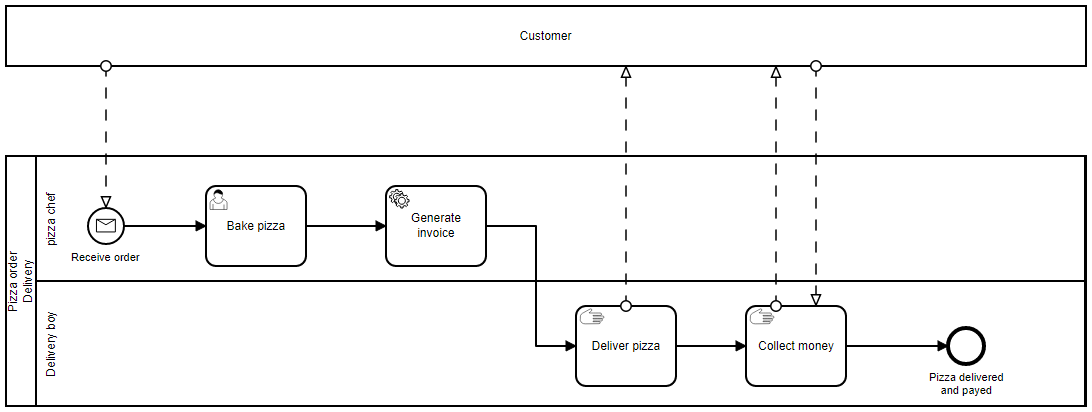
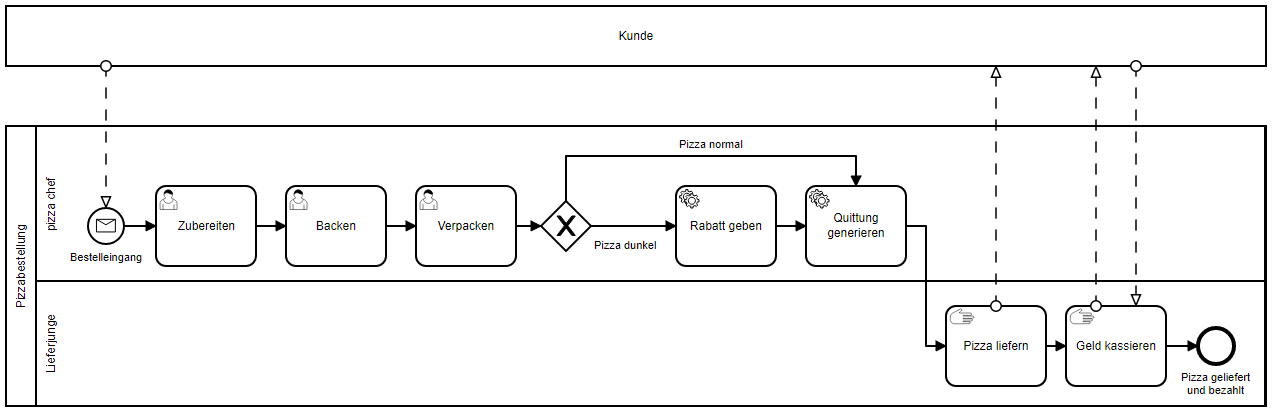
docs: updated README.md

diff --git a/README.md b/README.md
@@ -5,7 +5,7 @@ An integration of Alexa and [Camunda BPM Platform](https://github.com/camunda/ca
 I use Camunda BPM Platform integrated in
 Micronaut ([micronaut-camunda-bpm](https://github.com/camunda-community-hub/micronaut-camunda-bpm)).
 
-## The process
+## Introduction / Motivation
 
 The following image shows a pizza delivery service process. I took it from the book of Rücker &
 Freund.
@@ -13,24 +13,33 @@ Freund.
 > Source: Replicated from Page 98, Rücker, B., & Freund, J. (2019). Praxishandbuch BPMN 2.0: Mit Einführung in DMN. Carl Hanser Verlag GmbH Co KG.
 
 However, we are only looking on the "service view" of the process. So we collapse the customer pool.
+Also, we split the task "Bake pizza" in three different tasks and add a gateway which gives a
+discount if the pizza got a bit burned.  
 ![The service view](BPMN/PNG/pizza_service_customer_closed.png "The service view")
 
-Next, we focus on the user task "Bake pizza". This will be the part of the process which we are
-going to control via voice. When baking a pizza we introduce some steps that need to be done:
-
-- View the order
-- Start the preparation of the pizza
-- Put the pizza in the oven
-- Put the pizza in a carton
-
 All of these steps will take place within the kitchen. For the moment, we assume that there is only
-one pizza chef.
+one pizza chef. And of course there is no computer with a display that the chef can use. So we place
+an Amazon Alexa in his kitchen!
+
+## Why use Camunda?
+
+## Why use Alexa?
+
+### What is the purpose of the skill?
+
+> The purpose is the guiding principle that your dialogs should align to that trains the AI. For example, the cake skill lets you order custom cakes delivered to your door from the comfort of home.
+
+- Interact with a user task (baking pizza)
+- Provide information to the user about 'what to do now'
+
+### What are the user's goals?
+
+> What do they get out of this experience? Goals help you identify your core dialogs. For example, users can order a pizza pie with preset options or customize a pie to their liking.
+
+- You can tell the system the state of your user task via voice
+- Process participants get updates of this former manual process -> Better User Experience
 
 ## Contribution
-
-### JAVA JDK
-
-I use Open JDK 17.
 
 ### Conventional Commits
 
@@ -48,3 +57,9 @@ Otherwise see here: https://commitlint.js.org/#/guides-local-setup
 
 1. `npm install -g bpmn-to-image`
 2. `npm run generate-bpmn-png`
+
+### ngrok
+
+1. create account and download software
+2. put software in ngrok folder within this directory
+3. `npm run ngrok`
